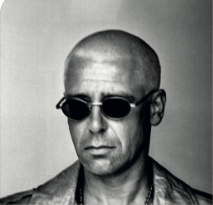
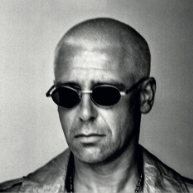
Organisation des cartes membres

Changed region(s): [[0.0, 0.0622, 1.0, 1.0], [0.0, 0.0, 0.0311, 0.0311]]

diff --git a/fansite1/fansite1.css b/fansite1/fansite1.css
@@ -641,6 +641,8 @@ main .article1_home>div:last-of-type:hover hr {
     display: grid;
     grid-template-columns: repeat(4, 1fr);
     gap: 10px;
+    margin-left: 0;
+    margin-right: 0;
 }
 
 .article2_membres {
@@ -728,6 +730,7 @@ main .article1_home>div:last-of-type:hover hr {
     display: flex;
     flex-direction: column;
     justify-content: center;
+    box-shadow:  5px 8px 15px rgba(53, 32, 25, 0.65);
 }
 
 .article2_membres .parent div .button{
